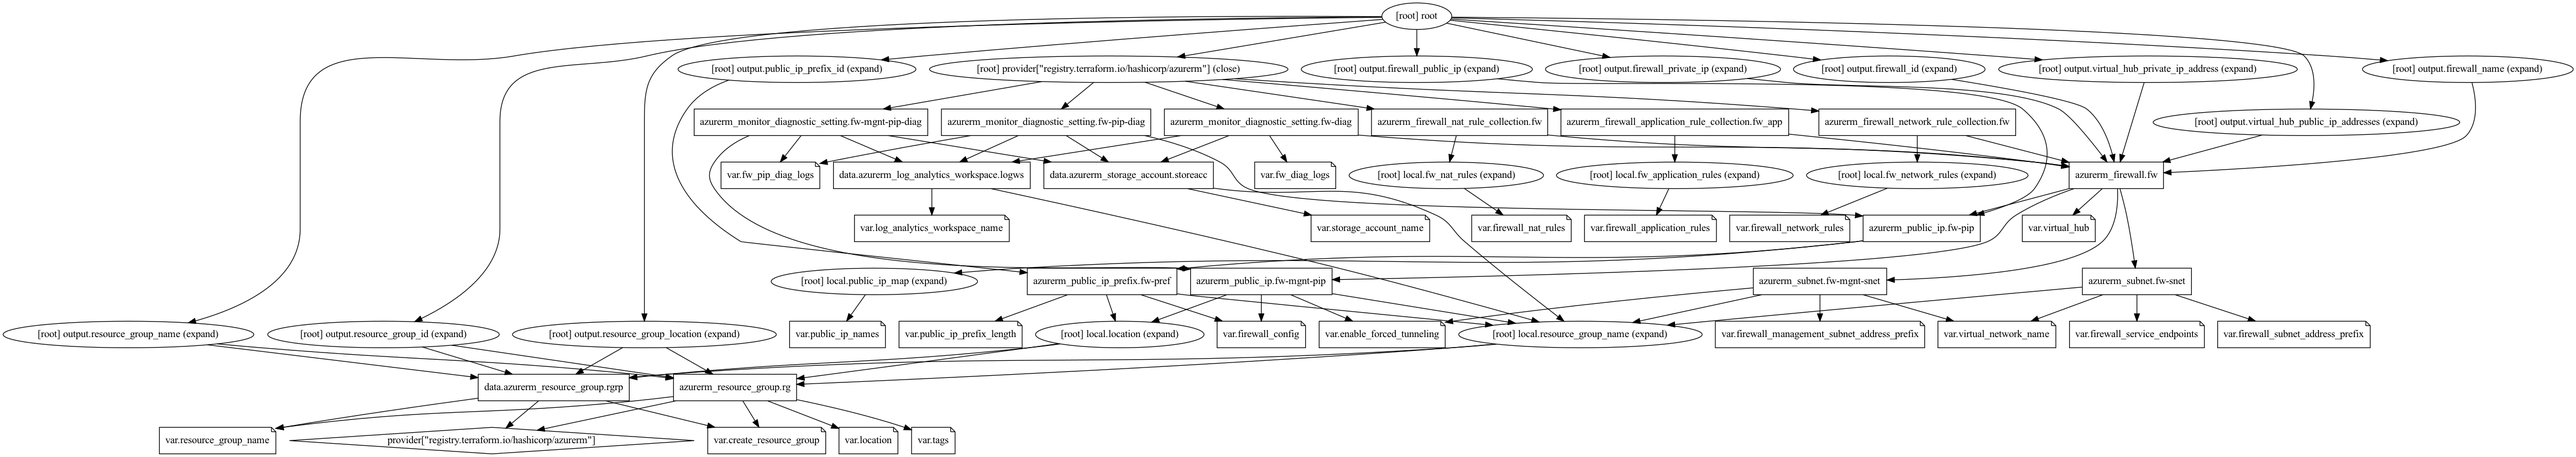
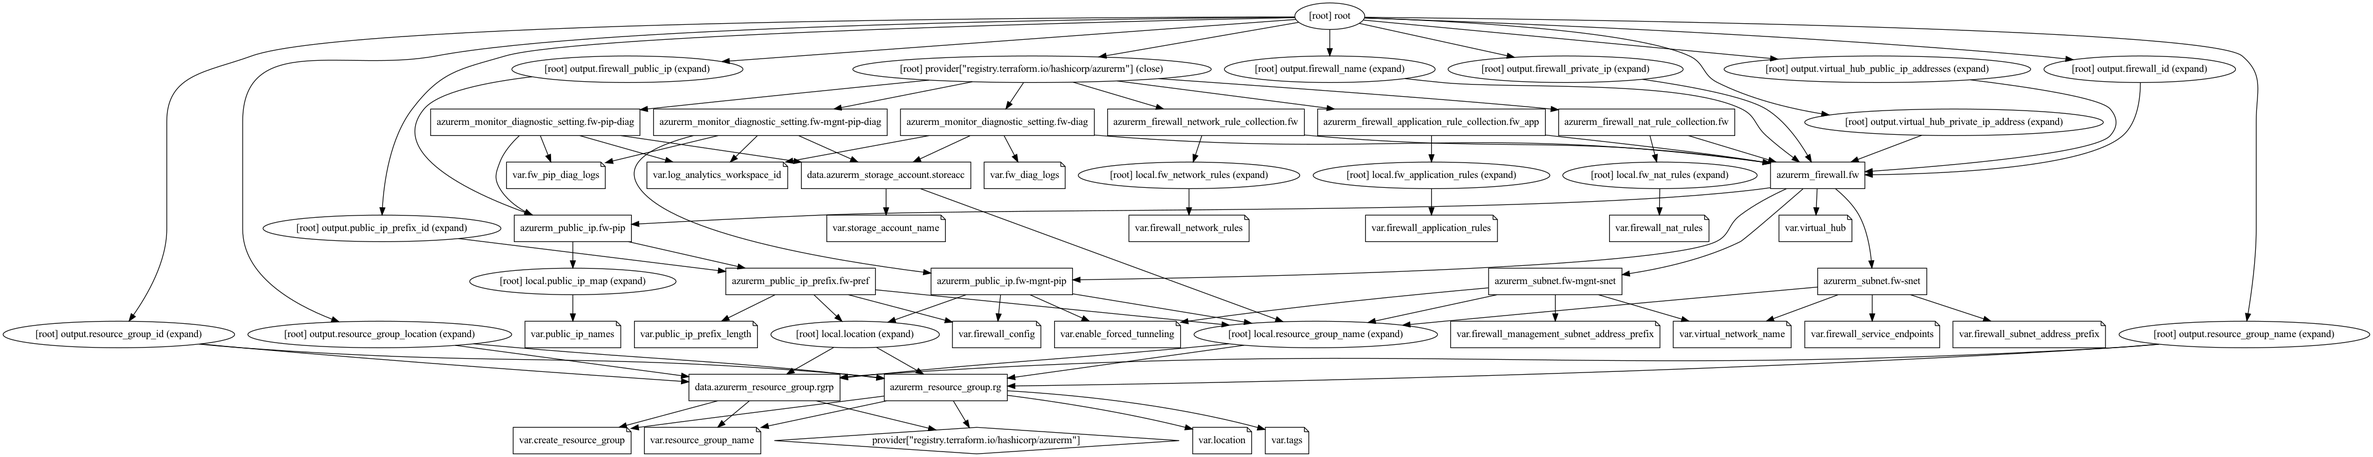
main configuration update

Changed region(s): [[0.0, 0.0, 0.9988, 0.9976], [0.6555, 0.786, 0.7803, 0.8162], [0.4682, 0.8767, 0.4994, 0.9069]]

diff --git a/README.md b/README.md
@@ -22,6 +22,11 @@ provider "azurerm" {
   features {}
 }
 
+data "azurerm_log_analytics_workspace" "example" {
+  name                = "loganalytics-we-sharedtest2"
+  resource_group_name = "rg-shared-westeurope-01"
+}
+
 module "firewall" {
   source  = "kumarvna/firewall/azurerm"
   version = "1.1.0"
@@ -97,9 +102,9 @@ module "firewall" {
     },
   ]
 
-  # (Optional) To enable Azure Monitoring for Azure MySQL database
-  # (Optional) Specify `storage_account_name` to save monitoring logs to storage. 
-  log_analytics_workspace_name = "loganalytics-we-sharedtest2"
+  # (Optional) To enable Azure Monitoring and diagnostics to firewall and public ip's
+  # (Optional) Specify `storage_account_name` to save monitoring logs to storage.   
+  log_analytics_workspace_id = data.azurerm_log_analytics_workspace.example.id
 
   # Adding TAG's to your Azure resources 
   tags = {
@@ -223,10 +228,8 @@ Name | Description | Type | Default
 `resource_group_name`|The name of an existing resource group.|string|`""`
 `location`|The location for all resources while creating a new resource group.|string|`""`
 `virtual_network_name`|The name of the virtual network|string|`""`
-`storage_account_name`|The name of the storage account name|string|`null`
-`log_analytics_workspace_name`|The name of log analytics workspace name|string|`null`
 `firewall_subnet_address_prefix`|The address prefix to use for the Firewall subnet.The Subnet used for the Firewall must have the name `AzureFirewallSubnet` and the subnet mask must be at least a `/26`.|list|`[]`
-`firewall_management_subnet_address_prefix`|The address prefix to use for Firewall managemement subnet to enable forced tunnelling. The Management Subnet used for the Firewall must have the name `AzureFirewallManagementSubnet` and the subnet mask must be at least a `/26`.
+`firewall_management_subnet_address_prefix`|The address prefix to use for Firewall managemement subnet to enable forced tunnelling. The Management Subnet used for the Firewall must have the name `AzureFirewallManagementSubnet` and the subnet mask must be at least a `/26`.|list|`[]`
 `public_ip_prefix_length`|Specifies the number of bits of the prefix. The value can be set between `0` (4,294,967,296 addresses) and `31` (2 addresses).|number|`31`
 `public_ip_names`|Public ips is a list of ip names that are connected to the firewall. At least one is required|list|`["fw-public"]`
 `firewall_service_endpoints`|Service endpoints to add to the firewall subnet|list|`["Microsoft.AzureActiveDirectory", "Microsoft.AzureCosmosDB", "Microsoft.EventHub",  "Microsoft.KeyVault", "Microsoft.ServiceBus", "Microsoft.Sql", "Microsoft.Storage",]`
@@ -236,6 +239,8 @@ Name | Description | Type | Default
 `firewall_application_rules`|Microsoft-managed virtual network that enables connectivity from other resources.|list(object)|`[]`
 `firewall_network_rules`|List of network rules to apply to firewall.|list(object)|`[]`
 `firewall_nat_rules`|List of nat rules to apply to firewall|list(object)|`[]`
+`storage_account_name`|The name of the storage account name|string|`null`
+`log_analytics_workspace_id`|The resource id of log analytics workspace|string|`null`
 `Tags`|A map of tags to add to all resources|map|`{}`
 
 ## Outputs

diff --git a/examples/complete/README.md b/examples/complete/README.md
@@ -10,6 +10,11 @@ provider "azurerm" {
   features {}
 }
 
+data "azurerm_log_analytics_workspace" "example" {
+  name                = "loganalytics-we-sharedtest2"
+  resource_group_name = "rg-shared-westeurope-01"
+}
+
 module "firewall" {
   source  = "kumarvna/firewall/azurerm"
   version = "1.1.0"
@@ -85,9 +90,9 @@ module "firewall" {
     },
   ]
 
-  # (Optional) To enable Azure Monitoring for Azure MySQL database
-  # (Optional) Specify `storage_account_name` to save monitoring logs to storage. 
-  log_analytics_workspace_name = "loganalytics-we-sharedtest2"
+  # (Optional) To enable Azure Monitoring and diagnostics to firewall and public ip's
+  # (Optional) Specify `storage_account_name` to save monitoring logs to storage.   
+  log_analytics_workspace_id = data.azurerm_log_analytics_workspace.example.id
 
   # Adding TAG's to your Azure resources 
   tags = {
